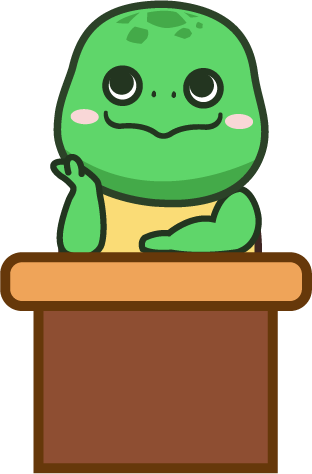
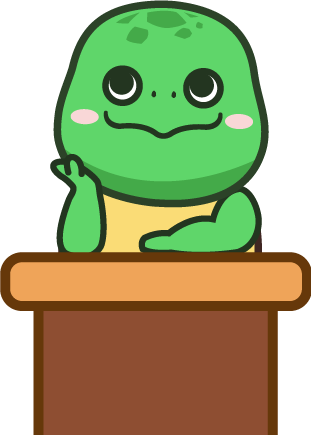
add: 말풍선 & 거북이 그래픽 추가

Changed region(s): [[0.0, 0.0, 1.0, 1.0]]

diff --git a/src/components/main/TurtleWithTitle.jsx b/src/components/main/TurtleWithTitle.jsx
@@ -1,0 +1,58 @@
+import React from 'react';
+import styled from 'styled-components';
+import turtleImg from '../../../public/img/character.png';
+import titleImg from '../../../public/img/bubble.png';
+import media from '../../lib/styles/media';
+
+const Wrapper = styled.div`
+  position: relative;
+  height: 100%;
+  width: 35rem;
+  margin: 0 auto;
+`;
+
+const Content = styled.div`
+  position: absolute;
+  bottom: 0;
+  text-align: center;
+`;
+
+const TurtleImg = styled.img`
+  width: 70%;
+  @media (max-width: ${media.laptopL}) {
+    width: 50%;
+  }
+`;
+
+const TitleWrapper = styled.header`
+  background-image: url(${titleImg});
+  background-repeat: no-repeat;
+  background-size: 25rem 12rem;
+  background-position: center;
+  width: 35rem;
+  height: 15rem;
+  h1 {
+    font-size: 24px;
+    padding-top: 3.5rem;
+    line-height: 1.3em;
+    font-weight: 550;
+  }
+`;
+
+const TurtleWithTitle = () => {
+  return (
+    <Wrapper>
+      <Content>
+        <TitleWrapper>
+          <h1>
+            개발자 / 디자이너 <br />
+            성향 분석 테스트
+          </h1>
+        </TitleWrapper>
+        <TurtleImg src={turtleImg} alt="turtle with title" />
+      </Content>
+    </Wrapper>
+  );
+};
+
+export default TurtleWithTitle;

diff --git a/src/containers/main/MainContainer.jsx b/src/containers/main/MainContainer.jsx
@@ -1,0 +1,34 @@
+import React from 'react';
+import styled from 'styled-components';
+import img from '../../../public/img/bg_clouds.png';
+import media from '../../lib/styles/media';
+
+import TurtleWithTitle from '../../components/main/TurtleWithTitle';
+
+const Container = styled.div`
+  height: 100%;
+  max-width: ${media.laptopL};
+  margin: 0 auto;
+  background-image: url(${img});
+  background-repeat: no-repeat;
+  background-position: 50% 30%;
+  background-size: 60%;
+  @media (max-width: ${media.laptopL}) {
+    width: 90%;
+    background-size: 80%;
+    background-position: 50% 10%;
+  }
+  @media (max-width: ${media.tablet}) {
+    background-size: 100%;
+  }
+`;
+
+const MainContainer = () => {
+  return (
+    <Container>
+      <TurtleWithTitle />
+    </Container>
+  );
+};
+
+export default MainContainer;

diff --git a/src/pages/Main.jsx b/src/pages/Main.jsx
@@ -1,13 +1,19 @@
 import React from 'react';
 import styled from 'styled-components';
 import palette from '../lib/styles/palette';
+import MainContainer from '../containers/main/MainContainer';
 
 const Main = () => {
-  return <MainWrapper></MainWrapper>;
+  return (
+    <MainWrapper>
+      <MainContainer />
+    </MainWrapper>
+  );
 };
 
 const MainWrapper = styled.div`
   height: 100vh;
+  overflow: hidden;
   background-color: ${palette.blue0};
 `;
 
